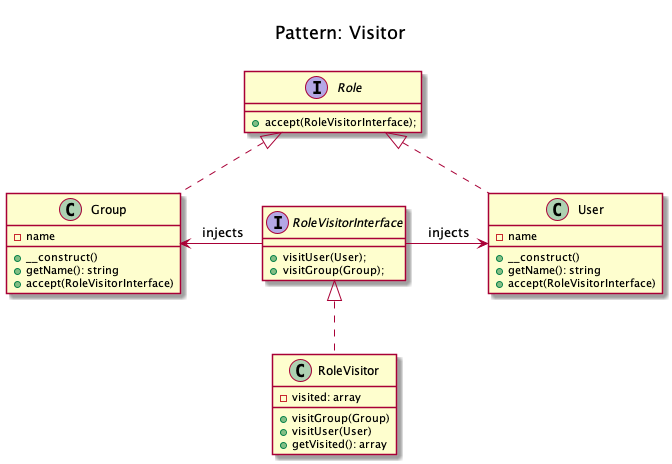
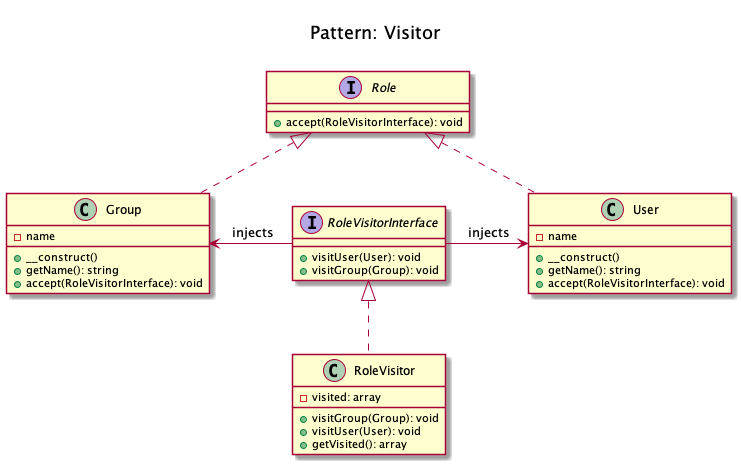
Visitor added.

diff --git a/patterns/behavioral/visitor/kamran-ahmed/AnimalOperation.php b/patterns/behavioral/visitor/kamran-ahmed/AnimalOperation.php
@@ -2,7 +2,7 @@
 namespace Patterns\Behavioral\Visitor\KamranAhmed;
 
 interface AnimalOperation {
-	public function visitMonkey(Monkey $monkey);
-	public function visitLion(Lion $lion);
-	public function visitDolphin(Dolphin $dolphin);
+	public function visitMonkey(Monkey $monkey): string;
+	public function visitLion(Lion $lion): string;
+	public function visitDolphin(Dolphin $dolphin): string;
 }

diff --git a/patterns/behavioral/visitor/domnikl/RoleVisitorInterface.php b/patterns/behavioral/visitor/domnikl/RoleVisitorInterface.php
@@ -2,6 +2,6 @@
 namespace Patterns\Behavioral\Visitor\Domnikl;
 
 interface RoleVisitorInterface {
-    public function visitUser(User $role): void ;
-    public function visitGroup(Group $role): void ;
+    public function visitUser(User $role): void;
+    public function visitGroup(Group $role): void;
 }

diff --git a/patterns/behavioral/visitor/domnikl/Group.php b/patterns/behavioral/visitor/domnikl/Group.php
@@ -12,7 +12,7 @@ class Group implements Role {
         return sprintf('Group: %s', $this->name);
     }
 
-    public function accept(RoleVisitorInterface $visitor) {
+    public function accept(RoleVisitorInterface $visitor): void {
         $visitor->visitGroup($this);
     }
 }

diff --git a/patterns/behavioral/visitor/domnikl/User.php b/patterns/behavioral/visitor/domnikl/User.php
@@ -12,7 +12,7 @@ class User implements Role {
         return sprintf('User %s', $this->name);
     }
 
-    public function accept(RoleVisitorInterface $visitor) {
+    public function accept(RoleVisitorInterface $visitor): void {
         $visitor->visitUser($this);
     }
 }

diff --git a/patterns/behavioral/visitor/domnikl/Role.php b/patterns/behavioral/visitor/domnikl/Role.php
@@ -2,5 +2,5 @@
 namespace Patterns\Behavioral\Visitor\Domnikl;
 
 interface Role {
-    public function accept(RoleVisitorInterface $visitor);
+    public function accept(RoleVisitorInterface $visitor): void;
 }
